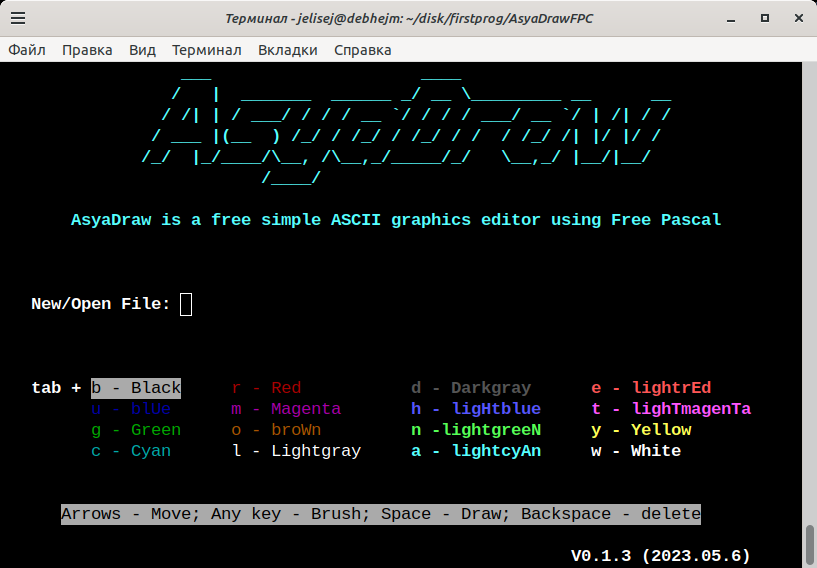
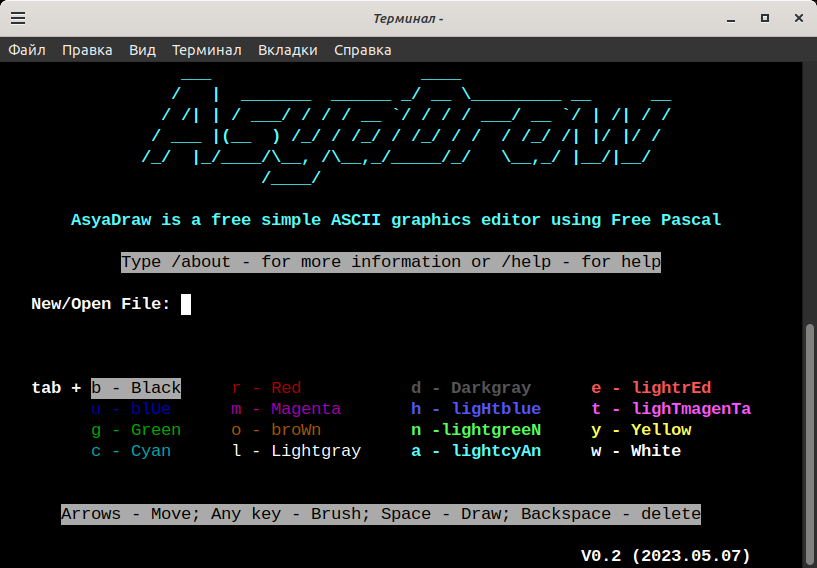
refresh meta infromation

diff --git a/README.md b/README.md
@@ -86,9 +86,15 @@ Do not open files of other applications in AsyaDraw.
 
 ## History of changes
 
+#### v0.2 (2023/05/07)
+
+* Added help page
+* The program no longer closes when exiting edit mode
+* Code optimization
+
 #### v0.1.3 (2023/05/06)
 
-* Add application information
+* Added application information
 
 #### v0.1.2 (2023/04/27)
 
